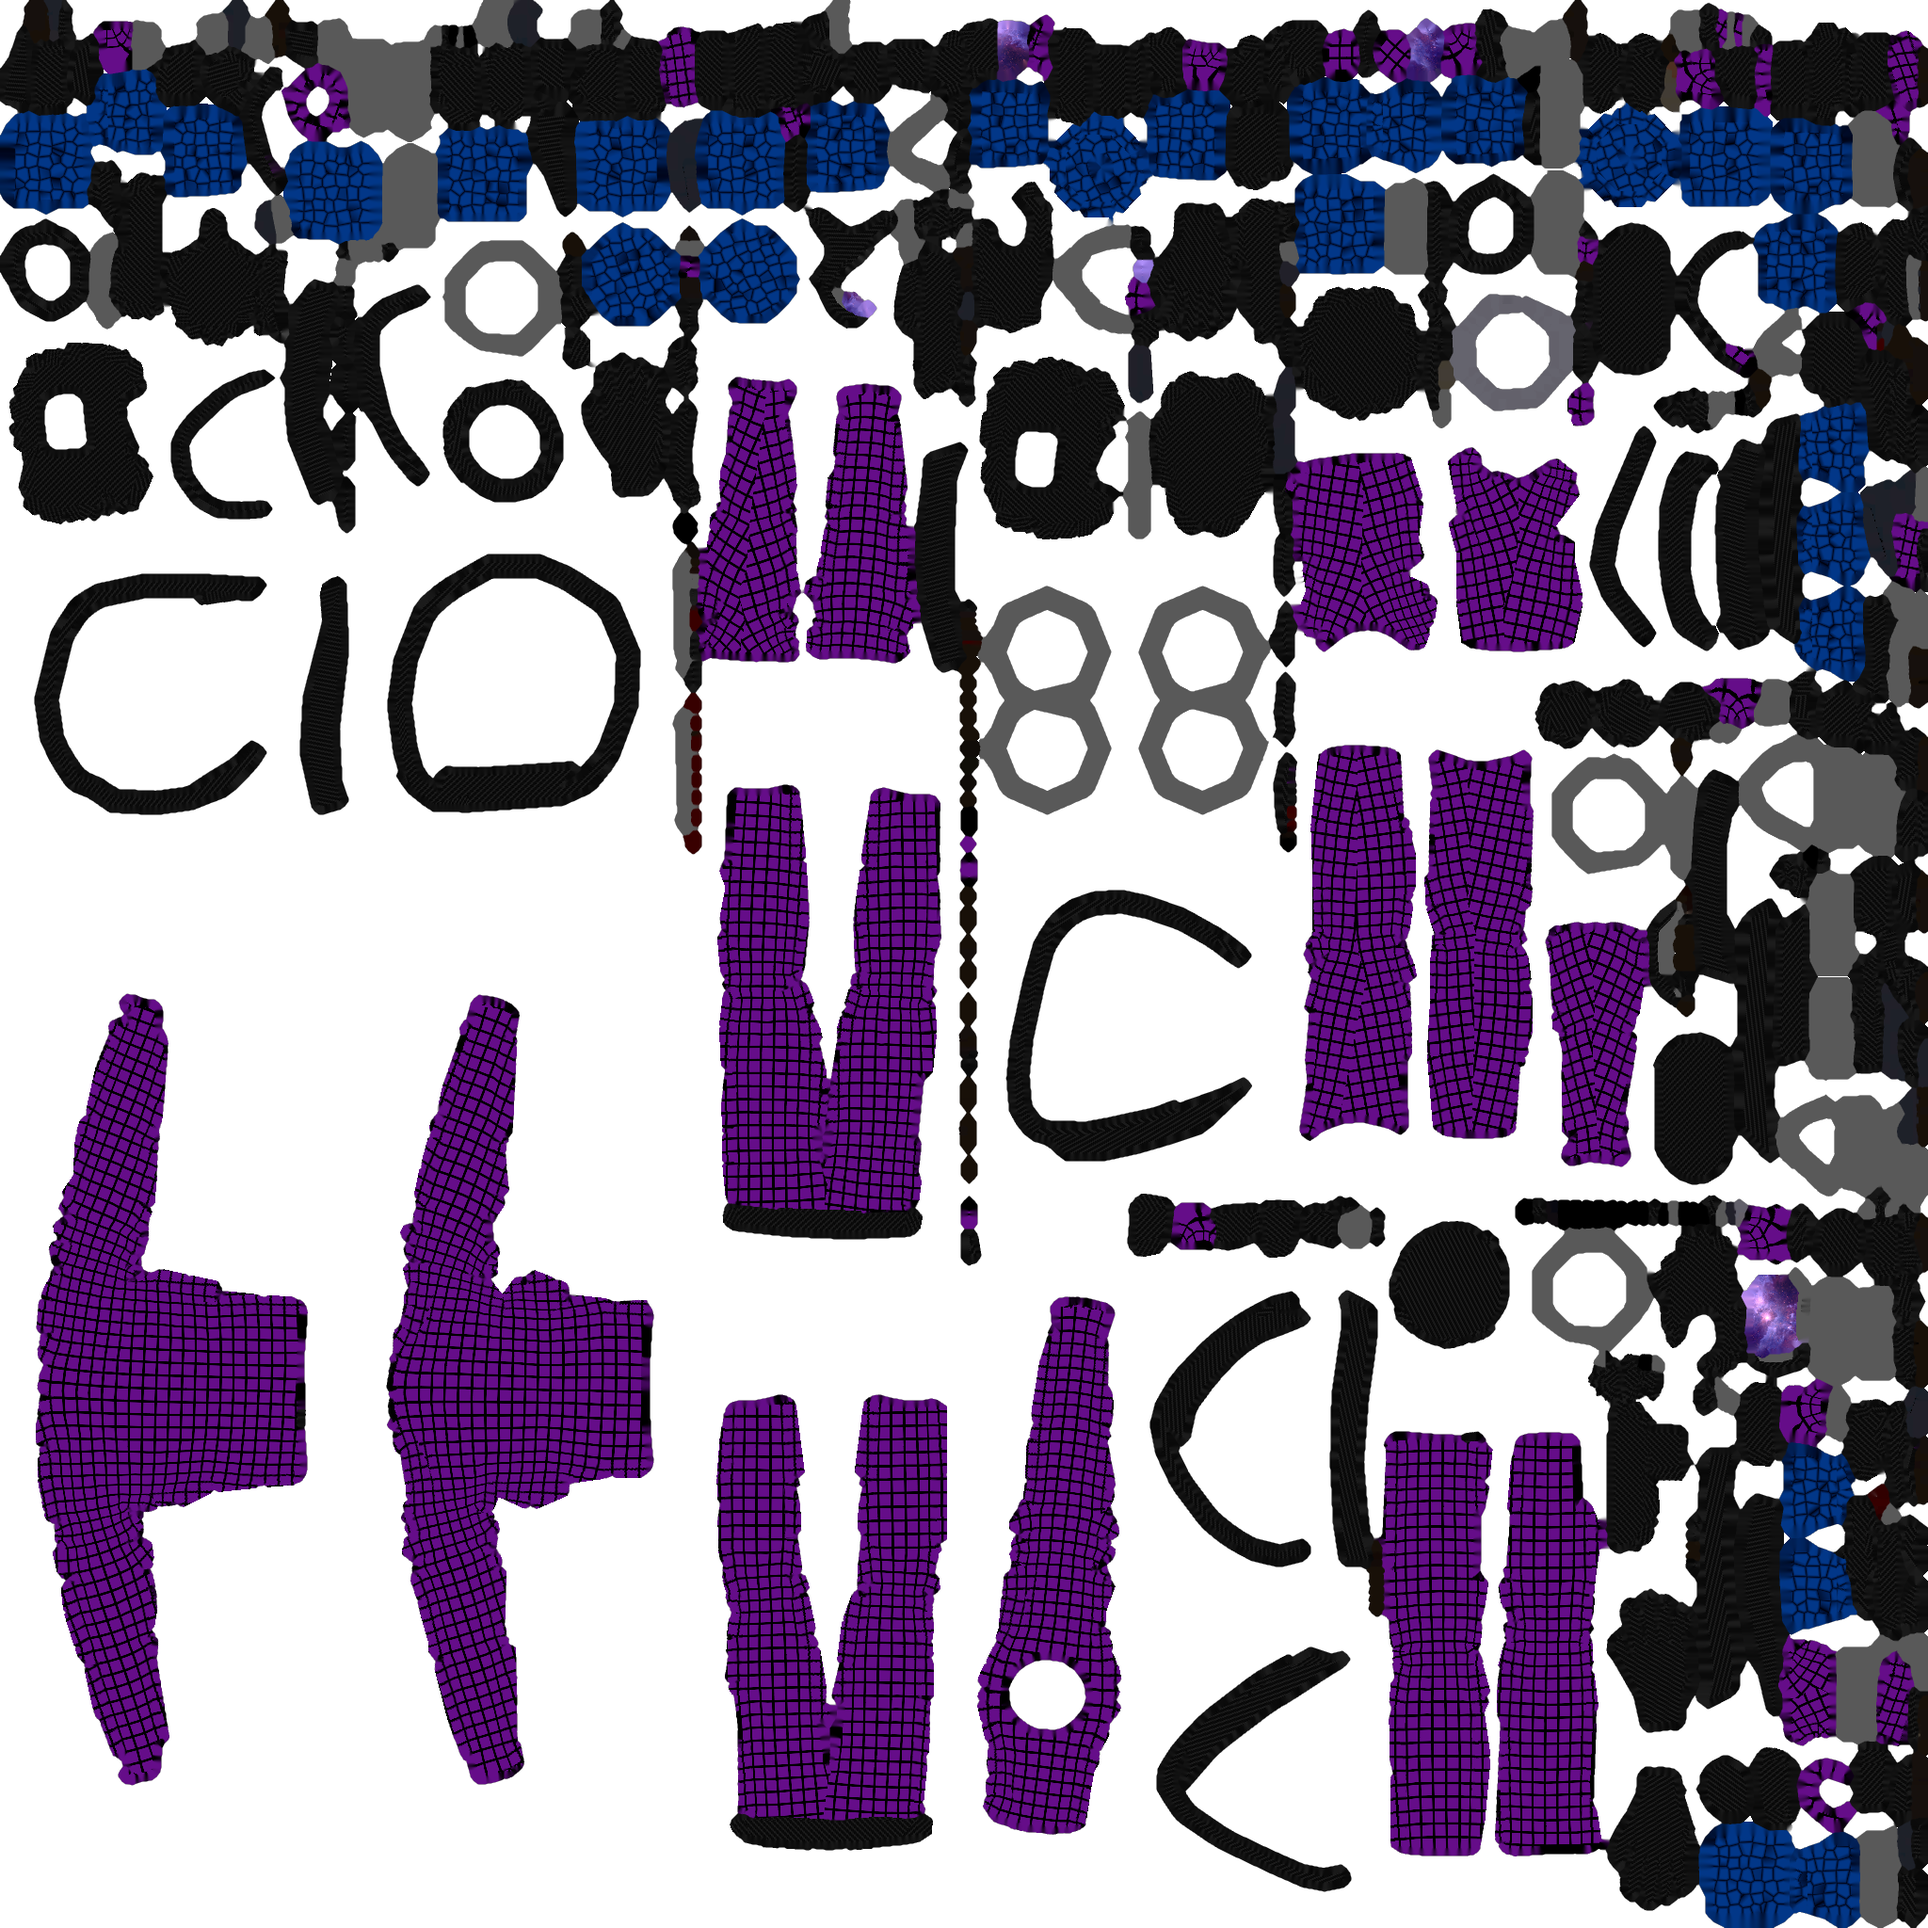
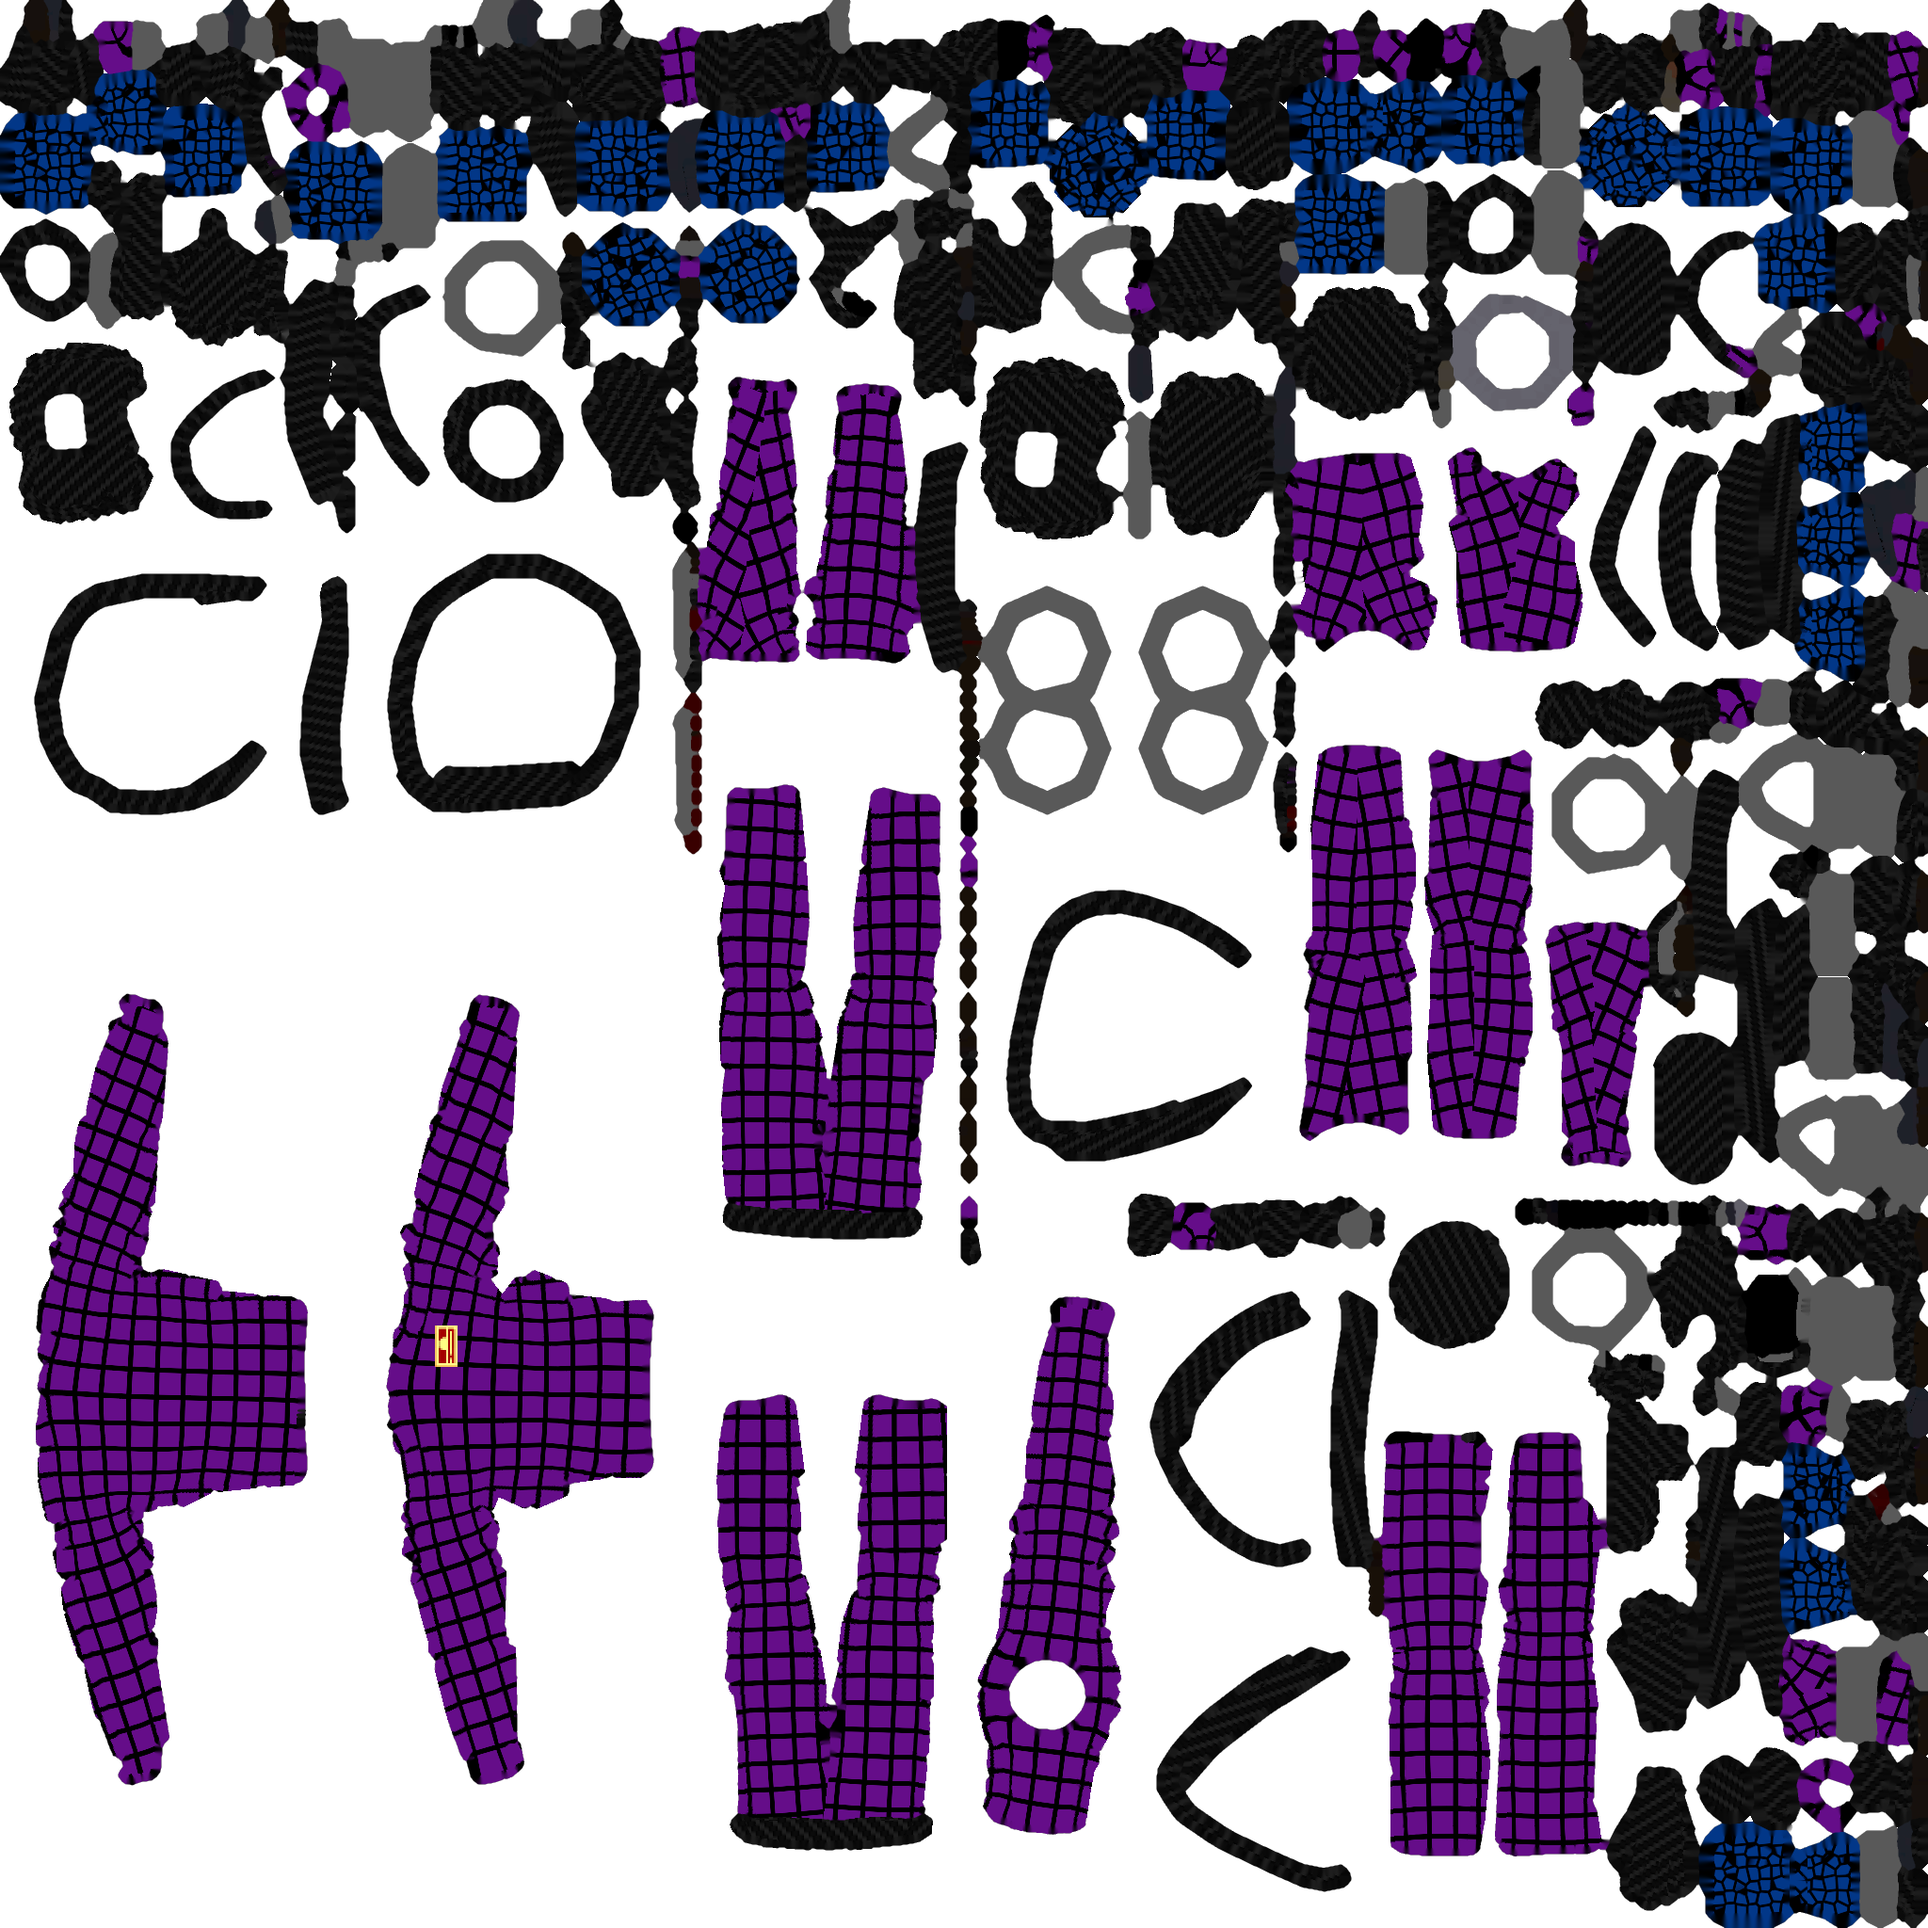
Increased scale of procedural textures on Outrunner

diff --git a/CHANGELOG.md b/CHANGELOG.md
@@ -5,3 +5,7 @@ Initial release
 ## 1.0.1
 
 Fixed folder layout, Thunderstore wasn't clear I needed the BepInEx/plugins/<my mod> format so here we are
+
+## 1.0.2
+
+Increased scale of procedural textures on Outrunner, this should make the emission more visible with the heavy downsampling LC has
